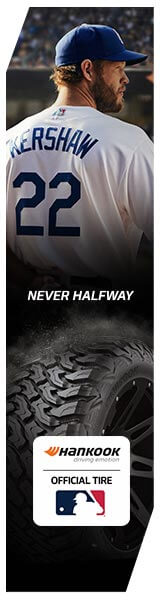
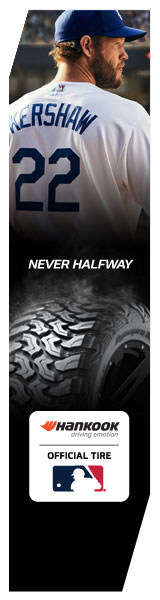
Updated backup.jpgs

diff --git a/InnOcean/hankook-mlb-022020/300x250/style.css b/InnOcean/hankook-mlb-022020/300x250/style.css
@@ -73,7 +73,7 @@ img {
 }
 
 .backup {
-  background-image: url('backup.png');
+  background-image: url('backup.jpg');
   background-repeat: no-repeat;
   display: block;
   width: 100%;
